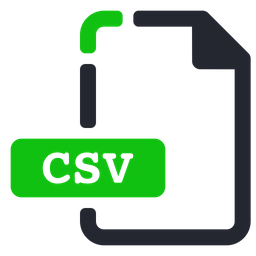
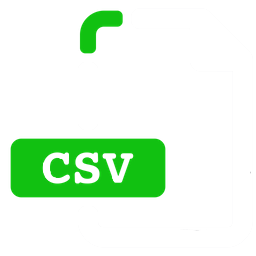
Izmene na css-u

Changed region(s): [[0.3125, 0.0312, 1.0, 0.9688], [0.3125, 0.25, 0.375, 0.5]]

diff --git a/Projekat/Front/UI/src/app/csv-tabela/csv-tabela.component.html b/Projekat/Front/UI/src/app/csv-tabela/csv-tabela.component.html
@@ -123,11 +123,11 @@
 
     <div class="grid-wrapper" *ngIf="podaci.length>0" [formGroup]="forma" id="tabela">
       <div class="row justify-content-center" style="margin-top: 10px;">
-        <div class="col-md-auto justify-content-center m-1">
-          <button class="dugme2 dugmeAnimacija" mat-raised-button color="primary" (click)="izbrisiSelektovano()">Obrisi selektovano</button>
+        <div class="col-md-auto m-1 d-flex justify-content-center">
+          <button class="dugme2 dugmeAnimacija" id="dugmeIznadTabele" mat-raised-button color="primary" (click)="izbrisiSelektovano()">Obrisi selektovano</button>
         </div>
-        <div class="col-md-auto justify-content-center m-1">
-          <button class="dugme2 dugmeAnimacija" mat-raised-button color="primary" (click)="skiniFajl()">Download</button>
+        <div class="col-md-auto m-1 d-flex justify-content-center">
+          <button class="dugme2 dugmeAnimacija" id="dugmeIznadTabele" mat-raised-button color="primary" (click)="skiniFajl()">Download</button>
         </div>
       </div>
       <ag-grid-angular style="height: 520px;" class="ag-theme-alpine-dark" [rowData]="RedoviPodaci"

diff --git a/Projekat/Front/UI/src/app/csv-tabela/csv-tabela.component.css b/Projekat/Front/UI/src/app/csv-tabela/csv-tabela.component.css
@@ -144,16 +144,17 @@
 #fajl{
     max-width: 25vh;
     min-width: 250px;
-    background: white;
+    background: #063966;
     border-radius: 20px;
     padding: 10px; 
     margin: auto;
+    color: white;
 }
 
 #fajl .parent {
     
     display: grid;
-    background: white;
+    background: #00294c;
     border-radius: 15px;
     border: gray 2px dashed;
     overflow: hidden;
@@ -208,6 +209,16 @@
 }
 #tabela ::ng-deep .ag-theme-alpine-dark .ag-row-odd{
     background-color: #063966;
+}
+#dugmeIznadTabele{
+    min-width: fit-content;
+    width: 13vw;
+}
+
+@media (max-width:767px) {
+    #dugmeIznadTabele{
+        width: 100%;
+    }
 }
 
 

diff --git a/Projekat/Front/UI/src/app/csv-tabela/csv-tabela.component.ts b/Projekat/Front/UI/src/app/csv-tabela/csv-tabela.component.ts
@@ -323,11 +323,6 @@ export class CsvTabelaComponent implements OnInit {
     this.onFileSelected(file);
   }
 
-
-  public myCustomValidator(file: File): Observable<boolean> {
-    this.spinner.show("Spiner1");
-    return of(true);
-  }
   public izbrisiFajl(){
     this.podaci=[];
     

diff --git a/Projekat/Front/UI/src/app/trening/trening.component.css b/Projekat/Front/UI/src/app/trening/trening.component.css
@@ -15,3 +15,7 @@
     background-color: #16355D;
     margin-left: 5px;
 }
+
+.mat-button-disabled{
+    color: red;
+}
